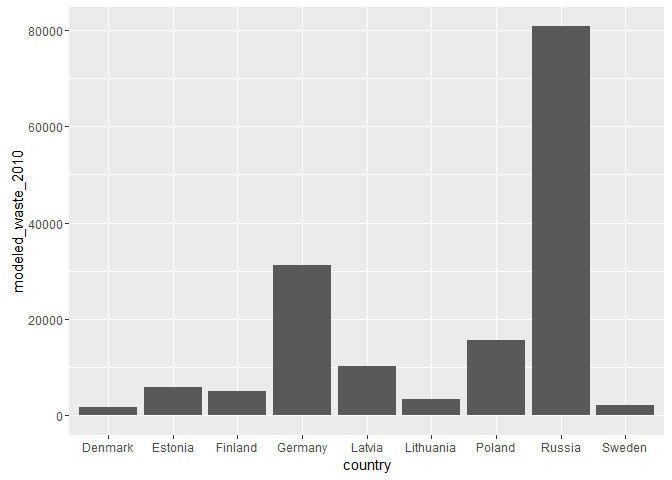
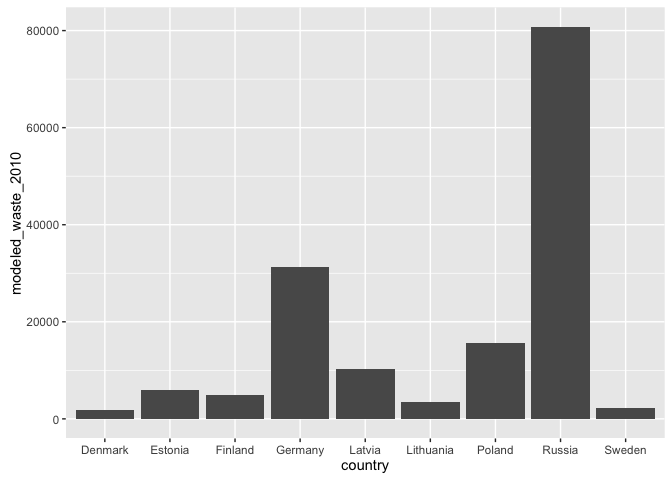
reknit trash

diff --git a/baltic2015/prep/CW/trash/tra_prep.md b/baltic2015/prep/CW/trash/tra_prep.md
@@ -1,22 +1,18 @@
-tra\_prep.rmd
+Trash (TRA) Subgoal Data Preparation
 ================
 
--   [Preparation of TRA (trash) data layer](#preparation-of-tra-trash-data-layer)
-    -   [1. Background](#background)
-    -   [2. Data](#data)
-        -   [2.1 Data storage](#data-storage)
-        -   [2.2 Data Info](#data-info)
-    -   [3. Goal model Potential path forward:](#goal-model-potential-path-forward)
-    -   [4. Data layer preparation](#data-layer-preparation)
-        -   [4.1 Read in data](#read-in-data)
-        -   [4.2 Filter Baltic data](#filter-baltic-data)
-        -   [4.3 Modeled Mismanaged plastic waste 2010](#modeled-mismanaged-plastic-waste-2010)
-        -   [4.4 Modeled Mismanaged plastic waste 2025](#modeled-mismanaged-plastic-waste-2025)
-        -   [4.5 Prepare data layer for Toolbox](#prepare-data-layer-for-toolbox)
-        -   [4.6 Plot exploring ref point as max of Europe (including Russia) in 2010 v. 2025](#plot-exploring-ref-point-as-max-of-europe-including-russia-in-2010-v.-2025)
-
-Preparation of TRA (trash) data layer
-=====================================
+-   [1. Background](#background)
+-   [2. Data](#data)
+    -   [2.1 Data storage](#data-storage)
+    -   [2.2 Data Info](#data-info)
+-   [3. Goal model Potential path forward:](#goal-model-potential-path-forward)
+-   [4. Data layer preparation](#data-layer-preparation)
+    -   [4.1 Read in data](#read-in-data)
+    -   [4.2 Filter Baltic data](#filter-baltic-data)
+    -   [4.3 Modeled Mismanaged plastic waste 2010](#modeled-mismanaged-plastic-waste-2010)
+    -   [4.4 Modeled Mismanaged plastic waste 2025](#modeled-mismanaged-plastic-waste-2025)
+    -   [4.5 Prepare data layer for Toolbox](#prepare-data-layer-for-toolbox)
+    -   [4.6 Plot exploring ref point as max of Europe (including Russia) in 2010 v. 2025](#plot-exploring-ref-point-as-max-of-europe-including-russia-in-2010-v.-2025)
 
 1. Background
 -------------
@@ -28,9 +24,9 @@ Proposed data for trash from [**Jambeck et al 2015: Plastic waste inputs from la
 
 **the Jambeck et al method includes:**
 
--   1.  the mass of waste generated per capita annually;
--   1.  the percentage of waste that is plastic; and
--   1.  the percentage of plastic waste that is mismanaged and, therefore, has the potential to enter the ocean as marine debris (12) (data S1). By applying a range of conversion rates from mismanaged waste to marine debris, we estimated the mass of plastic waste entering the ocean from each country in 2010, used population growth data (13) to project the increase in mass to 2025, and predicted growth in the percentage of waste that is plastic.
+1.  the mass of waste generated per capita annually;
+2.  the percentage of waste that is plastic; and
+3.  the percentage of plastic waste that is mismanaged and, therefore, has the potential to enter the ocean as marine debris (12) (data S1). By applying a range of conversion rates from mismanaged waste to marine debris, we estimated the mass of plastic waste entering the ocean from each country in 2010, used population growth data (13) to project the increase in mass to 2025, and predicted growth in the percentage of waste that is plastic.
 
 ### 2.1 Data storage
 
@@ -58,93 +54,11 @@ Footnotes from .xls file column headers 1 - Based upon 2010 Gross National Incom
 **Trend**: use projected 2025 data to get 5-year trend? Or just use trend for a different CW component as the trend of the whole goal.
 
 ``` r
-## Libraries
-library(readr)
-```
-
-    ## Warning: package 'readr' was built under R version 3.2.4
-
-``` r
-library(dplyr)
-```
-
-    ## Warning: package 'dplyr' was built under R version 3.2.5
-
-    ## 
-    ## Attaching package: 'dplyr'
-
-    ## The following objects are masked from 'package:stats':
-    ## 
-    ##     filter, lag
-
-    ## The following objects are masked from 'package:base':
-    ## 
-    ##     intersect, setdiff, setequal, union
-
-``` r
-library(tidyr)
-```
-
-    ## Warning: package 'tidyr' was built under R version 3.2.5
-
-``` r
-library(ggplot2)
-```
-
-    ## Warning: package 'ggplot2' was built under R version 3.2.4
-
-``` r
-library(RMySQL)
-```
-
-    ## Warning: package 'RMySQL' was built under R version 3.2.5
-
-    ## Loading required package: DBI
-
-    ## Warning: package 'DBI' was built under R version 3.2.5
-
-``` r
-library(stringr)
-library(tools)
-library(rprojroot) # install.packages('rprojroot')
-```
-
-    ## Warning: package 'rprojroot' was built under R version 3.2.4
-
-``` r
 library(readxl) # install.packages('readxl')
-```
-
-    ## Warning: package 'readxl' was built under R version 3.2.5
-
-``` r
 source('~/github/bhi/baltic2015/prep/common.r')
-
-
-## rprojroot
-root <- rprojroot::is_rstudio_project
-
-
-## make_path() function to 
-make_path <- function(...) rprojroot::find_root_file(..., criterion = is_rstudio_project)
-
-dir_layers = make_path('baltic2015/layers') # replaces  file.path(dir_baltic, 'layers')
-
-
-# root$find_file("README.md")
-# 
-# root$find_file("ao_need_gl2014.csv")
-# 
-# root <- find_root_file("install_ohicore.r", 
-# 
-# withr::with_dir(
-#   root_file("DESCRIPTION"))
-
-
-
 dir_tra    = file.path(dir_prep, 'CW/trash')
 
-## add a README.md to the prep directory with the rawgit.com url for viewing on GitHub
+## add a README.md to the prep directory
 create_readme(dir_tra, 'tra_prep.rmd')
 ```
 
@@ -161,7 +75,15 @@ trash_file = '1260352_SupportingFile_Suppl._Excel_seq1_v1.xlsx'
 
 ## lookup table
 baltic_lookup = read_csv(file.path(dir_prep, 'country_id.csv'))
+```
 
+    ## Parsed with column specification:
+    ## cols(
+    ##   country_id = col_character(),
+    ##   country_name = col_character()
+    ## )
+
+``` r
 ## read in data, remove Total and footnotes (NAs in Country column)
 data_raw = read_excel(file.path(dir_raw, trash_file)) %>%
   filter(!is.na(Country));  #head(data_raw); summary(data_raw)
